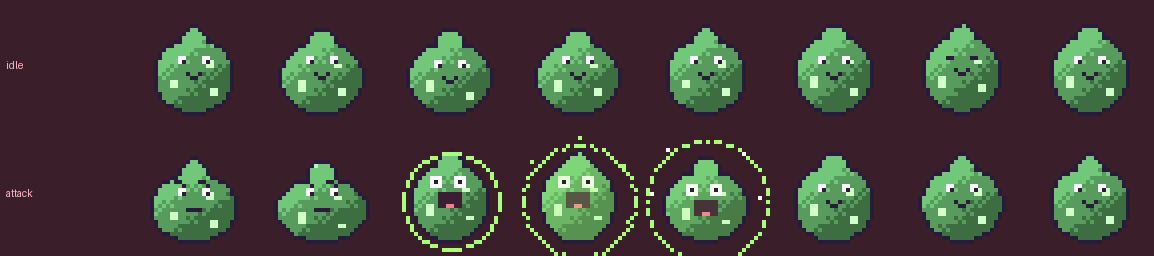
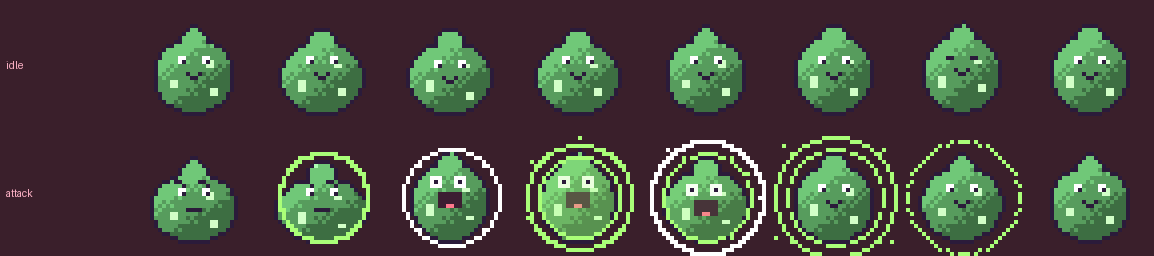
Make area and root attacks visible: lysozyme rings, platelet tendrils holding up to 3 enemies
The lysozyme attack animation is stronger and every area attack sends a ring across its range. The platelet now plays its attack animation and holds each rooted enemy with its own tendril until the enemy is free. It holds at most 3 enemies at once (root_targets in the tower data); the cap was requested by the designer and has not been playtested. Version 0.14.0 (code 1400).

Claude-Session: https://claude.ai/code/session_01W3EdRrQK5bateXTb9sTRVg

diff --git a/tools/write_balance_doc.py b/tools/write_balance_doc.py
@@ -186,7 +186,7 @@ def main():
         dps_b = scalar(b, "attack_damage") / max(0.01, scalar(b, "attack_interval", 1.0)) or scalar(b, "dot_damage")
         dps_a = scalar(a, "attack_damage") / max(0.01, scalar(a, "attack_interval", 1.0)) or scalar(a, "dot_damage")
         other = []
-        for key, label in (("slow_percent", "slow %"), ("root_seconds", "root s"), ("dot_damage", "dot/s"), ("dot_seconds", "dot s"),
+        for key, label in (("slow_percent", "slow %"), ("root_seconds", "root s"), ("root_targets", "root targets"), ("dot_damage", "dot/s"), ("dot_seconds", "dot s"),
                            ("mark_bonus", "mark"), ("mark_seconds", "mark s"), ("mark_targets", "mark targets"),
                            ("summon_interval", "summon every s"), ("summon_cap", "units max"), ("unit_health", "unit health"), ("unit_damage", "unit dps")):
             if scalar(a, key) or scalar(b, key):

diff --git a/tools/tower_art.py b/tools/tower_art.py
@@ -423,10 +423,14 @@ class Lysozyme(BlobTower):
                     img.putpixel((x, y), (210, 255, 200, 255))
 
     def effect(self, f):
-        for i, r in ((2, 12), (3, 14), (4, 15)):
-            ring_solid(f[i], 16, 18, r, ACID, skip=2)
+        # Two solid rings that spread out of the body and thin out, so the pulse reads at a glance.
+        for i, r in ((1, 11), (2, 12), (3, 13), (4, 14), (5, 15)):
+            ring_solid(f[i], 16, 17, r, ACID if i % 2 else WHITE)
+        for i, r in ((3, 10), (4, 11), (5, 12), (6, 14)):
+            ring_solid(f[i], 16, 17, r, ACID, skip=2)
         dots(f[3], ((4, 8), (27, 9), (3, 22), (28, 23), (16, 2)), ACID)
-        dots(f[4], ((6, 5), (25, 6), (2, 16), (29, 17)), WHITE)
+        dots(f[4], ((6, 5), (25, 6), (2, 16), (29, 17), (16, 31)), WHITE)
+        dots(f[5], ((3, 4), (28, 5), (1, 27), (30, 28)), ACID)
 
 
 class TLymphocyte(BlobTower):

diff --git a/docs/game-design.md b/docs/game-design.md
@@ -18,7 +18,7 @@ Enemies drop amino acids when they die. Selling a tower returns part of its cost
 | Macrophage | single target | physical | 50 | 14 damage per second to the first enemy in range |
 | Neutrophil | rapid fire | physical | 45 | 5 damage every 0.4 s |
 | Mucus Cell | slow | none | 40 | Mucus puddle slows 40% for 6 s |
-| Platelet | root | none | 55 | Roots an enemy 1.2 s (half for bosses) |
+| Platelet | root | none | 55 | Holds up to 3 enemies for 1.2 s each (half for bosses), one tendril per enemy |
 | Hypothalamus | damage over time | thermal | 90 | Fever: 3 damage per second for 4 s |
 | Lysozyme | area | chemical | 70 | 4 per second; strong on bacteria, weak on viruses |
 | Interferon | area | antiviral | 70 | 5 per second, slows viruses 25%; bacteria immune |
@@ -30,7 +30,7 @@ Mobile towers can be moved to another slot.
 
 **Tower information.** Holding a build card or a built tower for 0.3 s shows its attributes (role, cost, range, damage, ability) and which enemies of the current level it is good, weak or useless against. Releasing closes the panel and does not build or open the sell card. A quick tap builds or opens the sell card as before.
 
-**Attack feedback.** Every tower plays an attack animation when it attacks. Area towers (lysozyme, interferon) also send a ring from the tower to the edge of its range in 0.6 s, coloured by damage type.
+**Attack feedback.** Every tower plays an attack animation when it attacks. Area towers (lysozyme, interferon) also send a ring from the tower to the edge of its range in 0.6 s, coloured by damage type. The platelet grows one tendril to each enemy it roots (up to 3); the tendril holds the enemy for as long as it is paralysed and then disappears.
 
 ## Damage types
 

diff --git a/openspec/changes/fix-platelet-attack-animation/design.md b/openspec/changes/fix-platelet-attack-animation/design.md
@@ -1,0 +1,9 @@
+## Decisions
+
+- **The tendrils follow the status, not a timer of their own.** A hold lasts while `enemy.status.is_rooted()`, so bosses (rooted for half the time), a dead enemy or one that left the map are handled without extra rules.
+- **A child node `RootTendrils` draws them above everything** (`z_index = 2`): the enemy sprite would otherwise hide the curls. Only towers with the `root_aura` behaviour get it.
+- **Fade uses `EnemyStatus.root_remaining()`** so the tendrils end exactly when the enemy is freed.
+- **The limit of 3 is data (`root_targets`)**, not a constant. Before this change the platelet rooted every ready enemy in range, so capping it makes it weaker in crowds. The designer asked for the cap; **no playtest was run**, so the effect on win rates is unmeasured and `design/balance.md` is not updated yet.
+- **Furthest enemies first.** Free slots go to the enemies that are closest to the exit, like the other single-target towers.
+- **No expanding ring for the platelet**: the tendrils already show the hit; the ring stays for area towers.
+- **Not changed here:** the hypothalamus (`dot_aura`) has the same gap (sound, no animation). It was not requested, so it is reported to the designer instead.

diff --git a/openspec/changes/fix-platelet-attack-animation/proposal.md b/openspec/changes/fix-platelet-attack-animation/proposal.md
@@ -1,0 +1,19 @@
+## Why
+
+The platelet has an attack animation, but it never plays: the root aura roots enemies and plays the sound without telling the tower to animate. The designer reported that the platelet has no attack animation, and asked that it hold the enemy with tendrils for as long as the enemy is paralysed, after which the tendrils disappear.
+
+## What Changes
+
+- When the platelet roots an enemy it plays its attack animation, facing that enemy.
+- One tendril grows from the platelet to each rooted enemy in 0.25 s, waves while it holds the enemy and curls around it, then fades out in the last 0.25 s of the root and disappears.
+- The platelet holds up to 3 enemies at the same time (`root_targets` in the tower data), the ones furthest along the path first.
+- The platelet reacts once per release, not once per rooted enemy.
+
+## Capabilities
+
+### Modified Capabilities
+- `tower-feedback`: root attacks are visible too.
+
+## Impact
+
+- New `scripts/root_tendrils.gd`, new field `TowerData.root_targets` (generated data, `tools/generate_data.gd`); `scripts/tower.gd` (holds), `scripts/enemy_status.gd` (`root_remaining`), tests. No sprite or data change.

diff --git a/openspec/changes/fix-platelet-attack-animation/specs/tower-feedback/spec.md b/openspec/changes/fix-platelet-attack-animation/specs/tower-feedback/spec.md
@@ -1,0 +1,20 @@
+## ADDED Requirements
+
+### Requirement: Root attacks are visible
+When a platelet roots an enemy it SHALL play its attack animation, facing the enemy, once per release. The platelet SHALL hold at most 3 enemies at the same time, preferring the ones furthest along the path. It SHALL hold each rooted enemy with its own tendril, which grows from the platelet to the enemy, stays for as long as the enemy is paralysed, then fades out and disappears when the enemy is free.
+
+#### Scenario: Platelet roots an enemy
+- **WHEN** an enemy is in range of a platelet that is ready
+- **THEN** the enemy is rooted, the platelet plays its attack animation and tendrils grow to the enemy
+
+#### Scenario: Enemy is freed
+- **WHEN** the root time of the enemy ends, or the enemy dies
+- **THEN** the tendrils to that enemy are gone
+
+#### Scenario: Platelet is recharging
+- **WHEN** the only enemy in range cannot be rooted yet
+- **THEN** the platelet stays in its idle animation and shows no tendrils
+
+#### Scenario: More than three enemies
+- **WHEN** five enemies are in range of a platelet that is ready
+- **THEN** exactly three are rooted, each with one tendril

diff --git a/docs/development.md b/docs/development.md
@@ -33,7 +33,7 @@ godot --headless --path . --script res://tools/validate_data.gd
 
 ## Art and audio
 
-All are generated by scripts: `generate_enemy_sprites.py`, `generate_tower_sprites.py`, `generate_placeholder_art.py` (UI, amino acid icon), `generate_audio.py` (effects and music, `--check` measures them), `generate_icon_options.py` (icon). Screenshot tools: `campaign_screenshots`, `card_screenshots`, `tower_screenshots`, `ui_screenshots` (`.tscn` in `tools/`).
+All are generated by scripts: `generate_enemy_sprites.py`, `generate_tower_sprites.py`, `generate_placeholder_art.py` (UI, amino acid icon), `generate_audio.py` (effects and music, `--check` measures them), `generate_icon_options.py` (icon). Screenshot tools: `campaign_screenshots`, `card_screenshots`, `platelet_screenshots`, `tower_screenshots`, `ui_screenshots` (`.tscn` in `tools/`).
 
 ## Building the APK
 

diff --git a/openspec/changes/fix-platelet-attack-animation/tasks.md b/openspec/changes/fix-platelet-attack-animation/tasks.md
@@ -1,0 +1,11 @@
+## 1. Animation
+
+- [x] 1.1 Play the attack animation when the platelet roots an enemy, and verify with a test that it does
+- [x] 1.2 Draw tendrils that hold each rooted enemy while it is rooted and disappear after, and verify with a test that a hold exists while rooted and is gone afterwards
+- [x] 1.3 Add `root_targets` (3) to the tower data, make the platelet hold at most 3 enemies, and verify with a test that five enemies in range give three holds
+- [x] 1.4 Run all tests (470 checks, 0 failures) and validate the data
+
+## 2. Check
+
+- [x] 2.1 Verify with `tools/platelet_screenshots` that three tendrils hold three enemies, fade and disappear
+- [ ] 2.2 Playtest the effect of the cap of 3 on win rates (not run; the designer asked for the cap directly)

diff --git a/docs/architecture.md b/docs/architecture.md
@@ -28,6 +28,7 @@ main.tscn (scripts/main.gd)  -- builds Level + Hud for that level and the chosen
 | `enemy.gd` | Movement along the path, health, traits, rewards, damage taken |
 | `enemy_status.gd` | Slow, root, damage over time, mark, resistances on one enemy |
 | `enemy_sprites.gd`, `tower_sprites.gd` | Load sprites and animations |
+| `root_tendrils.gd` | Tendrils drawn by a platelet on the enemies it holds |
 | `tower.gd` | All tower behaviours (single target, aura, slow puddle, root, DOT, marker, summoner) |
 | `blocker_unit.gd` | Neutrophils summoned by Bone Marrow |
 | `mucus_glob.gd`, `mucus_puddle.gd` | Mucus Cell projectile and slowing puddle |

diff --git a/openspec/changes/add-area-attack-feedback/tasks.md b/openspec/changes/add-area-attack-feedback/tasks.md
@@ -5,4 +5,4 @@
 
 ## 2. Check
 
-- [ ] 2.1 Verify on the emulator that the lysozyme attack is visible (waiting for the designer)
+- [x] 2.1 Verify on the emulator that the lysozyme attack is visible
